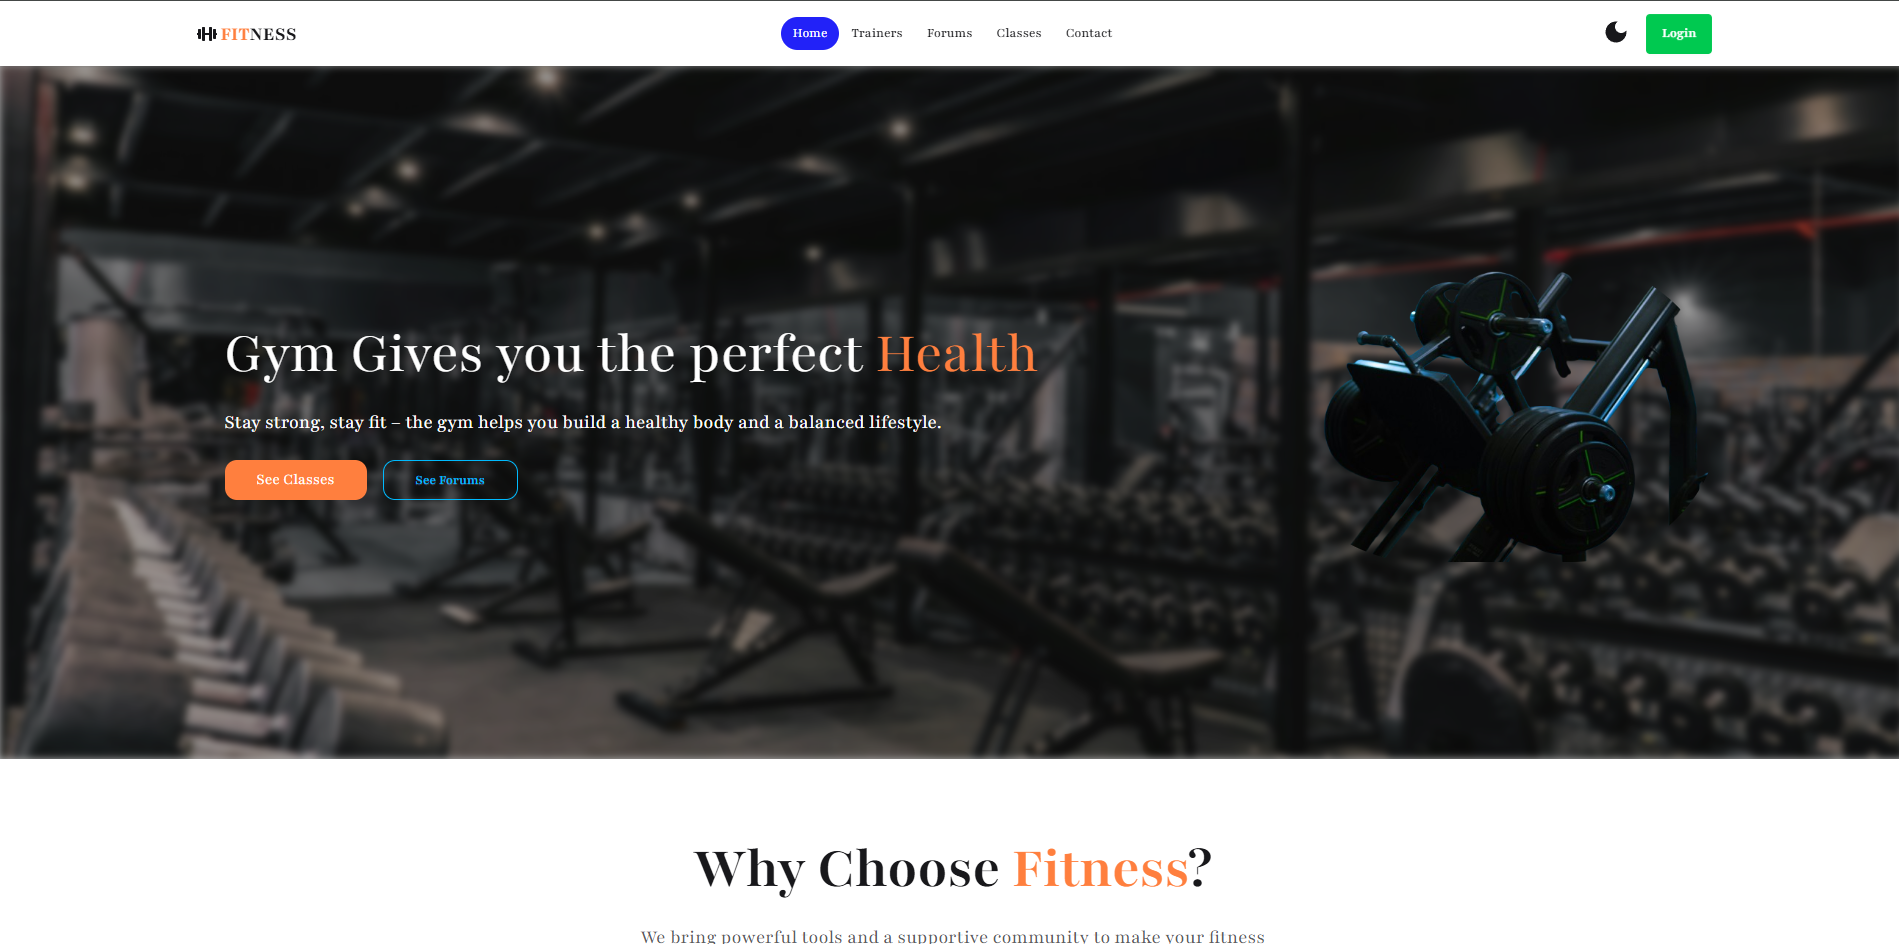
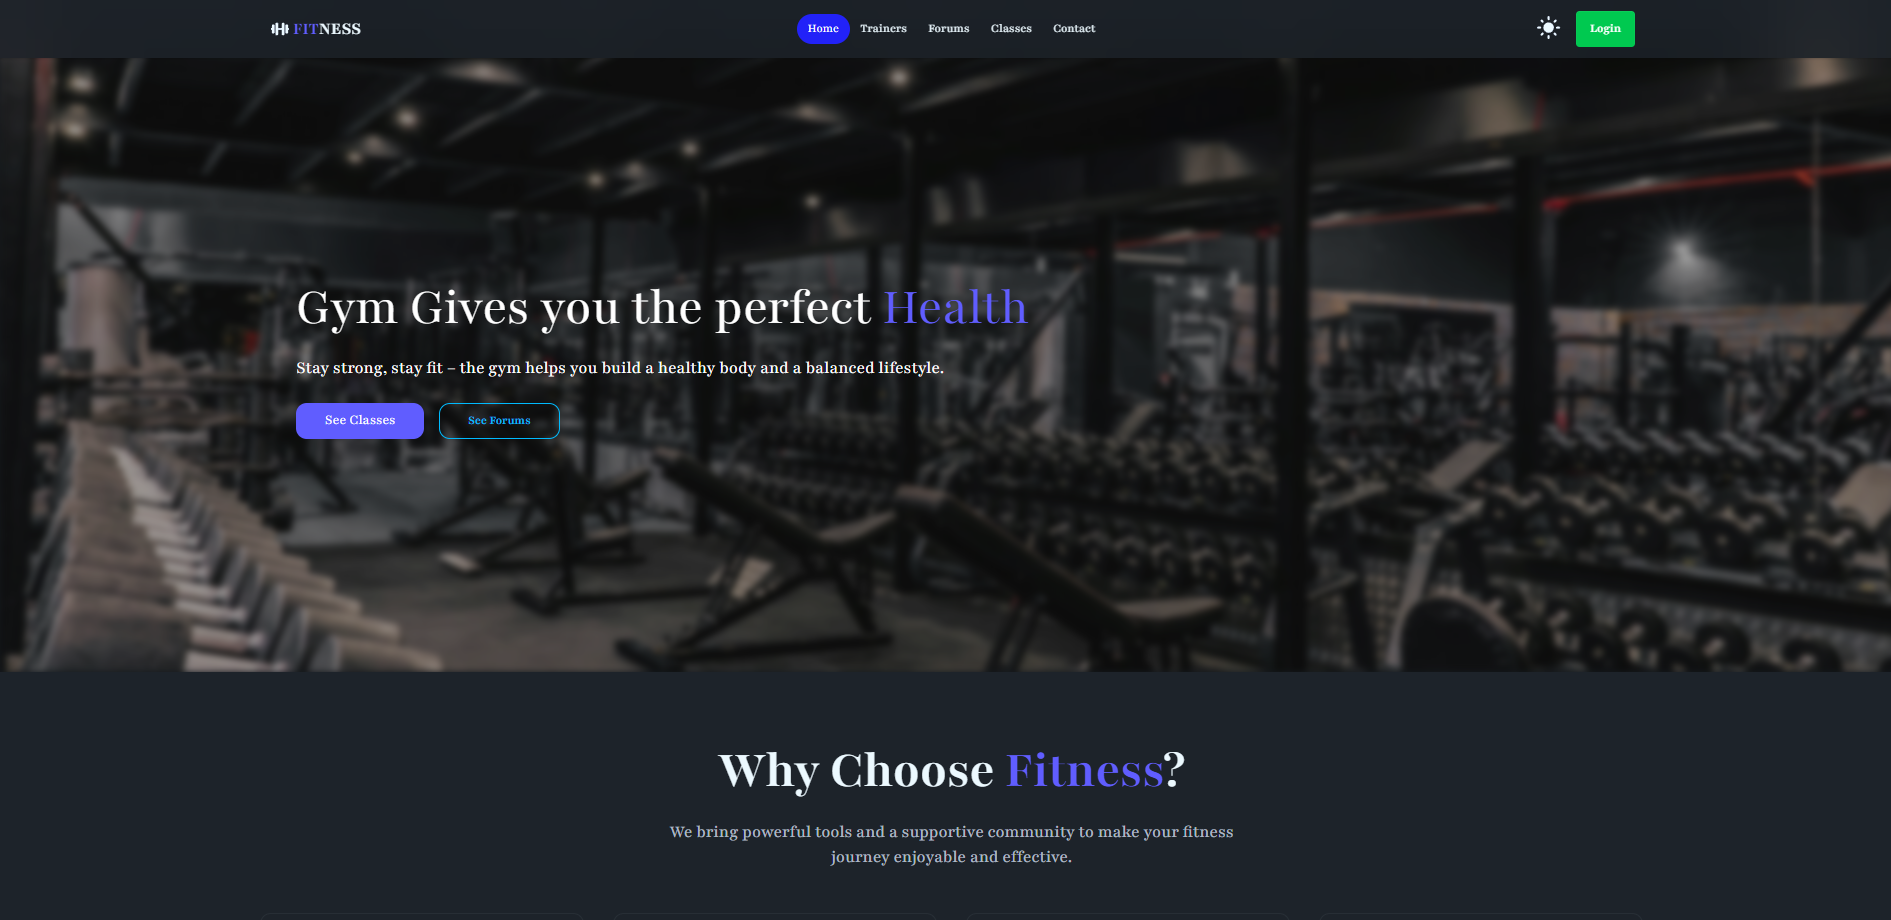
change bannger image

diff --git a/src/Pages/Home/Banner/BannerText.jsx b/src/Pages/Home/Banner/BannerText.jsx
@@ -17,20 +17,15 @@ const BannerText = () => {
                     </div>
                 </div>
 
-                <div className='flex justify-center md:justify-end items-center mt-10 md:mt-0'>
+                {/* <div className='flex justify-center md:justify-end items-center mt-10 md:mt-0'>
                     <motion.img
                         src="https://i.postimg.cc/QdPRxy0j/rifki-dwi-achsani-t-L-o-HZt-wr-F8-unsplash-removebg-preview.png"
                         alt="banner image"
                         className='w-[350px] md:w-[450px] rounded-full'
                         // initial={{ opacity: 0, y: 20 }}
                         animate={{ x: 0, y: [0, -10, 0], opacity: 1 }}
-                        // transition={{
-                        //     y: { repeat: Infinity, duration: 4, ease: "easeInOut" },
-                        //     opacity: { duration: 1.5 },
-                        //     x: { duration: 0 } 
-                        // }}
                     />
-                </div>
+                </div> */}
 
             </div>
         </div>
